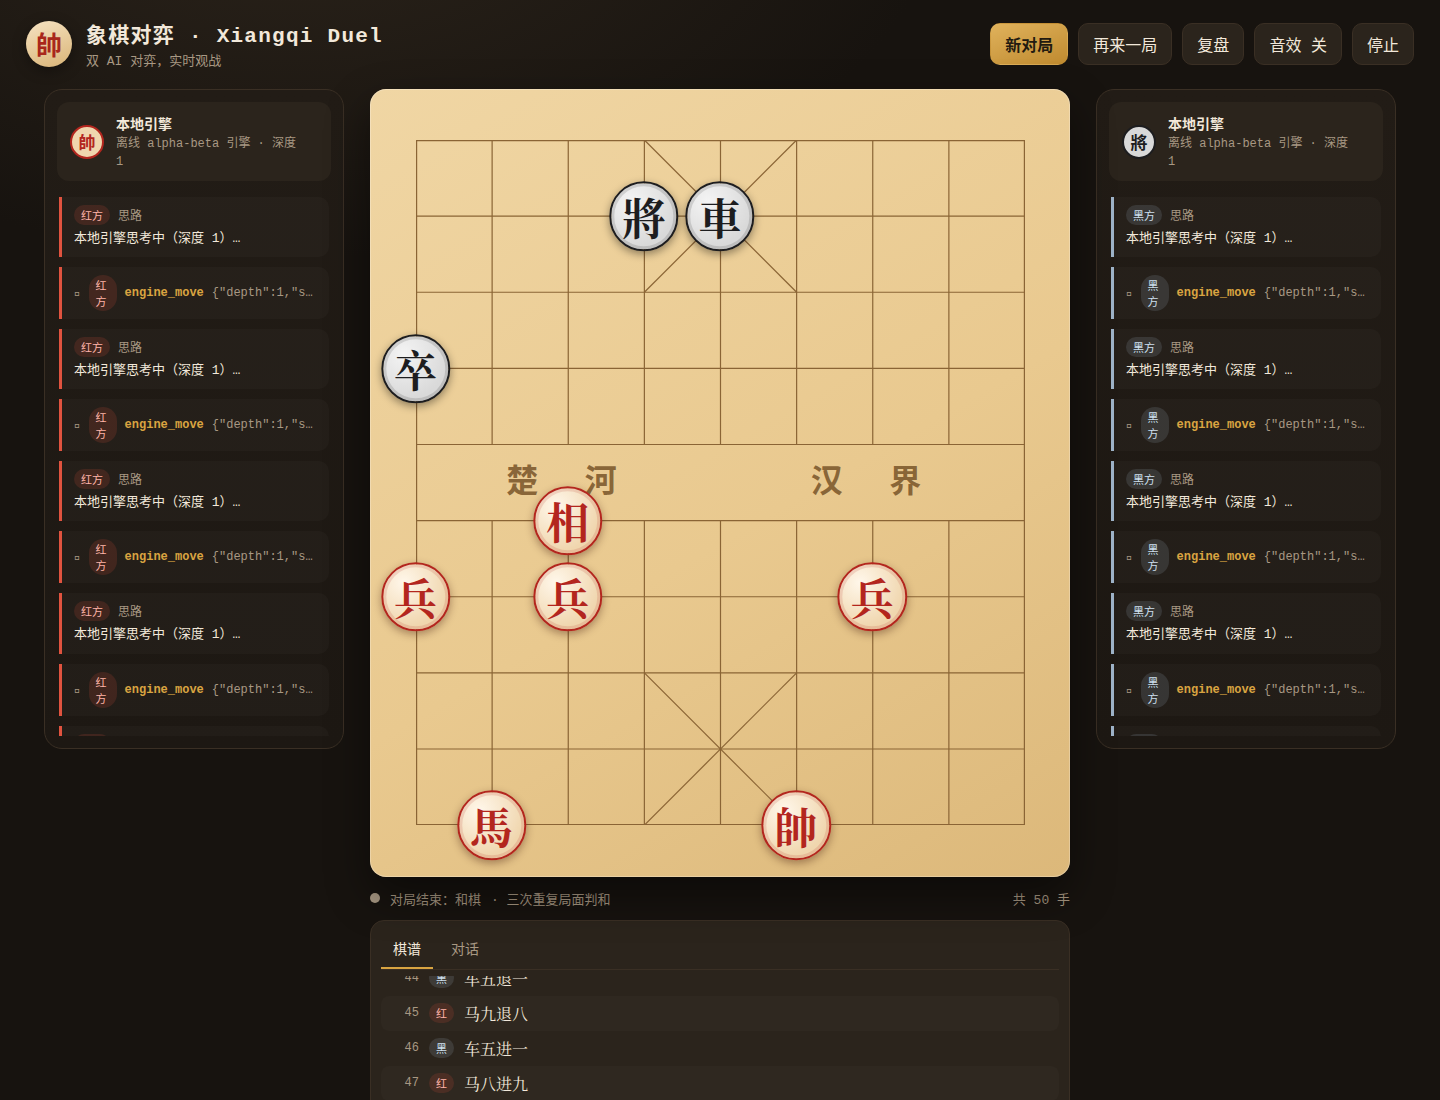
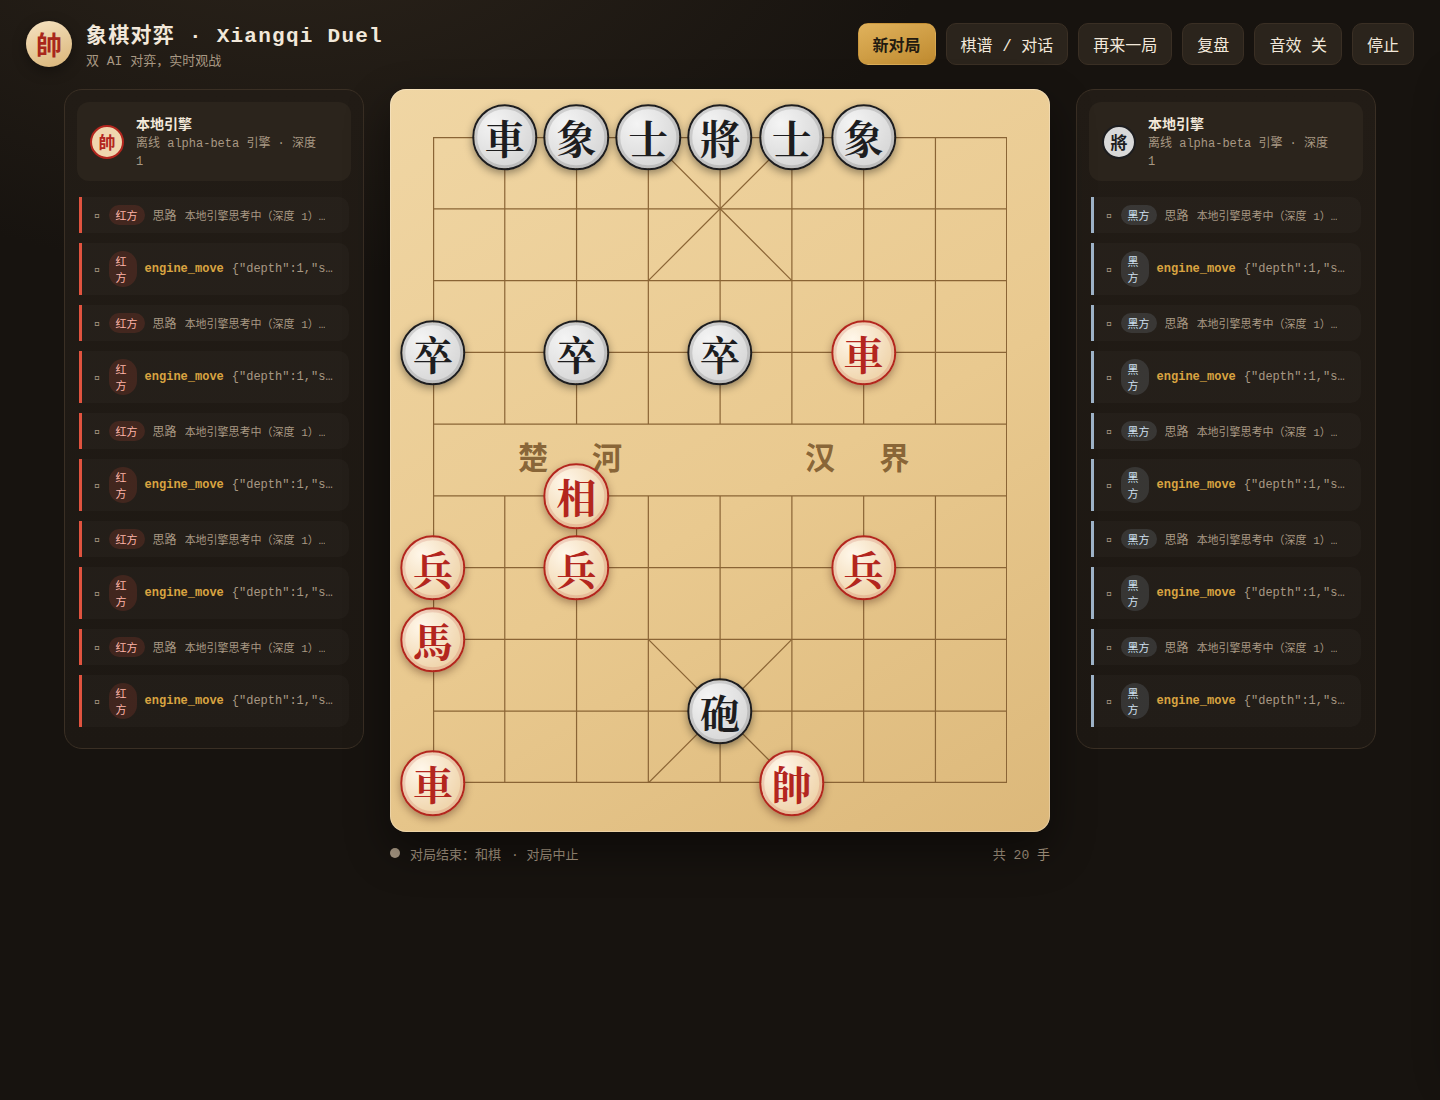
fix: 人机恢复左右布局、观战棋谱改抽屉、修复悬停动画、思考默认折叠

diff --git a/xiangqi_duel/web/index.html b/xiangqi_duel/web/index.html
@@ -62,9 +62,30 @@
     padding: 10px 26px 40px;
   }
   .layout.spectate {
-    grid-template-columns: minmax(240px, 300px) minmax(320px, 700px) minmax(240px, 300px);
+    grid-template-columns: minmax(240px, 300px) minmax(320px, 660px) minmax(240px, 300px);
   }
-  .layout.human { grid-template-columns: minmax(320px, 780px); }
+  .layout.human {
+    grid-template-columns: minmax(320px, 700px) minmax(300px, 380px);
+  }
+  .side-panel {
+    background: linear-gradient(180deg, var(--panel), #1d1813);
+    border: 1px solid var(--line); border-radius: 18px; padding: 14px;
+    display: flex; flex-direction: column; gap: 12px;
+    width: 100%; max-height: calc(100vh - 120px); overflow-y: auto;
+  }
+  .layout.spectate .side-panel {
+    position: fixed; top: 84px; right: 18px; bottom: 18px;
+    width: min(390px, 92vw); max-height: none; z-index: 40;
+    transform: translateX(112%); transition: transform .25s ease;
+    box-shadow: -12px 0 40px rgba(0, 0, 0, .45);
+  }
+  .layout.spectate .side-panel.open { transform: none; }
+  .drawer-close { display: none; align-self: flex-end; }
+  .layout.spectate .drawer-close { display: inline-block; }
+  .layout.spectate .players { display: none; }
+  .side-panel .pane { min-height: 140px; max-height: 46vh; overflow-y: auto; }
+  .side-panel .moves { max-height: none; }
+  .side-panel .chat { max-height: none; }
   .trace-panel {
     background: linear-gradient(180deg, var(--panel), #1d1813);
     border: 1px solid var(--line); border-radius: 18px; padding: 12px;
@@ -400,6 +421,7 @@
   <div class="top-actions">
     <button id="btn-new" class="btn primary">新对局</button>
     <button id="btn-resign" class="btn hidden">认输</button>
+    <button id="btn-drawer" class="btn hidden">棋谱 / 对话</button>
     <button id="btn-rematch" class="btn hidden">再来一局</button>
     <button id="btn-replay" class="btn">复盘</button>
     <button id="btn-sound" class="btn">音效 关</button>
@@ -437,7 +459,10 @@
       <span class="hint" id="rp-info"></span>
       <button class="btn" id="rp-exit">退出复盘</button>
     </div>
-    <div class="bottom-panel">
+    </section>
+    <aside class="side-panel" id="side-panel">
+      <button class="btn drawer-close" id="drawer-close">收起</button>
+      <div class="players" id="players"></div>
       <div class="tabs">
         <button class="tab active" data-tab="moves">棋谱</button>
         <button class="tab" data-tab="chat">对话</button>
@@ -453,8 +478,8 @@
         <p class="hint" id="chat-hint"></p>
       </div>
       <div id="pane-trace" class="pane"><div class="trace" id="trace-list"></div></div>
-    </div>
-  </section>
+    </aside>
+
 
   <aside class="trace-panel hidden" id="panel-black">
     <div class="panel-head" id="panel-head-black"></div>
@@ -619,6 +644,7 @@
       state.mateShown = false;
       state.lastPly = -1;
       state.pendingMove = false;
+      $('side-panel').classList.remove('open');
     }
     if (state.pendingMove && (snap.ply !== state.pendingPly || snap.turn !== snap.human_side)) {
       state.pendingMove = false;
@@ -643,8 +669,9 @@
     $('layout').classList.toggle('human', !spectate);
     $('panel-red').classList.toggle('hidden', !spectate);
     $('panel-black').classList.toggle('hidden', !spectate);
-    $('players-inline').classList.toggle('hidden', spectate);
+    $('btn-drawer').classList.toggle('hidden', !spectate);
     $('tab-trace').classList.add('hidden');
+    if (!spectate) { $('side-panel').classList.remove('open'); }
     var subtitle = $('subtitle');
     subtitle.textContent = snap.mode === 'human'
       ? '人机对弈 · 你执' + (snap.human_side === 'red' ? '红' : '黑') + '方'
@@ -774,9 +801,9 @@
     if (snap.mode === 'aivai') {
       $('panel-head-red').innerHTML = playerCard('red', snap);
       $('panel-head-black').innerHTML = playerCard('black', snap);
-      $('players-inline').innerHTML = '';
+      $('players').innerHTML = '';
     } else {
-      $('players-inline').innerHTML = playerCard('red', snap) + playerCard('black', snap);
+      $('players').innerHTML = playerCard('red', snap) + playerCard('black', snap);
       $('panel-head-red').innerHTML = '';
       $('panel-head-black').innerHTML = '';
     }
@@ -823,10 +850,13 @@
     var side = entry.side === 'red' ? 'red' : 'black';
     var who = entry.side === 'red' ? '红方' : '黑方';
     if (entry.kind === 'thinking') {
-      return '<div class="trace-item ' + side + '"><div class="trace-head">' +
-        '<span class="chip ' + side + '">' + who + '</span>' +
-        '<span class="trace-kind">' + (entry.variant === 'reasoning' ? '推理' : '思路') + '</span></div>' +
-        '<div class="trace-text">' + esc(entry.text) + '</div></div>';
+      var think = entry.text || '';
+      var thinkPreview = think.length > 46 ? think.slice(0, 46) + '…' : think;
+      return '<details class="trace-item ' + side + '">' +
+        '<summary><span class="chip ' + side + '">' + who + '</span>' +
+        '<span class="trace-kind">' + (entry.variant === 'reasoning' ? '推理' : '思路') + '</span>' +
+        '<span class="trace-preview">' + esc(thinkPreview) + '</span></summary>' +
+        '<div class="trace-text">' + esc(think) + '</div></details>';
     }
     if (entry.kind === 'tool_call') {
       var args = '';
@@ -1572,6 +1602,7 @@
         if (!type) { x += 1; continue; }
         var el = document.createElement('div');
         el.className = 'piece ' + color;
+        el.setAttribute('data-square', 'abcdefghi'.charAt(x) + y);
         el.style.left = leftFor(x) + '%';
         el.style.top = topFor(y) + '%';
         var span = document.createElement('span');
@@ -1645,6 +1676,7 @@
     $('replay-bar').classList.remove('hidden');
     $('panel-red').classList.add('hidden');
     $('panel-black').classList.add('hidden');
+    $('side-panel').classList.add('open');
     $('tab-trace').classList.remove('hidden');
     switchTab('trace');
     renderReplay();
@@ -1800,8 +1832,11 @@
     if (!anim || anim.stop) { return; }
     var move = anim.data.move;
     renderPiecesFromFen(anim.data.beforeFen, null);
-    var piece = piecesLayer.querySelector('[data-id="' + move.piece_id + '"]');
+    var piece = piecesLayer.querySelector('[data-square="' + move.from + '"]');
     if (!piece) { restoreHoverBoard(); return; }
+    var capturedEl = move.capture
+      ? piecesLayer.querySelector('[data-square="' + move.to + '"]')
+      : null;
     piece.classList.add('animating');
     var tx = 'abcdefghi'.indexOf(move.to.charAt(0));
     var ty = parseInt(move.to.slice(1), 10);
@@ -1816,10 +1851,7 @@
       anim.running = false;
       anim.arriveTimer = 0;
       piece.classList.remove('animating');
-      if (move.capture) {
-        var captured = piecesLayer.querySelector('[data-id="' + move.capture + '"]');
-        if (captured) { captured.remove(); }
-      }
+      if (capturedEl) { capturedEl.remove(); }
       if (anim.stop) { restoreHoverBoard(); return; }
       anim.loopTimer = setTimeout(function () {
         anim.loopTimer = 0;
@@ -1868,6 +1900,12 @@
       } catch (err) {
         toast(err.message);
       }
+    });
+    $('btn-drawer').addEventListener('click', function () {
+      $('side-panel').classList.toggle('open');
+    });
+    $('drawer-close').addEventListener('click', function () {
+      $('side-panel').classList.remove('open');
     });
     $('btn-replay').addEventListener('click', enterReplay);
     $('rp-first').addEventListener('click', function () {
@@ -2020,6 +2058,7 @@
     if (params.get('setup') === '1') { openSetup(); }
     var wantedTab = params.get('tab');
     if (wantedTab === 'chat' || wantedTab === 'trace') { switchTab(wantedTab); }
+    if (params.get('drawer') === '1') { $('side-panel').classList.add('open'); }
     var hoverParam = params.get('hover');
     if (hoverParam !== null) {
       setTimeout(function () {

diff --git a/README.md b/README.md
@@ -25,7 +25,8 @@
 - **独立上下文**：每个 AI 只有自己的对话历史，互相不污染
 - **中文提示词**：默认中文思考和记谱，避免输出跑成英文
 - **AI 留言**：`send_message` 让双方互相喊话；人机模式里你也可以在输入框发言
-- **观战三栏**：棋盘居中，红方思考在左、黑方在右；工具调用默认折叠，点开看完整参数与输出
+- **观战三栏**：棋盘居中，红方思考在左、黑方在右；棋谱 / 对话收进顶部抽屉，不占版面；思考和工具调用默认折叠，点开看全文
+- **人机布局**：棋盘在左，棋手、棋谱与对话在右，与观战模式互不影响
 - **悬停复现**：鼠标在棋谱某一行停留 1 秒，棋盘上会重放这一手（悬停时循环播放，移开就播完即止）
 - **流式输出**：思考内容逐字推送，不再是等一整段
 - **零第三方依赖**：只用 Python 标准库，HTTP / SSE / 回放全部自带的
